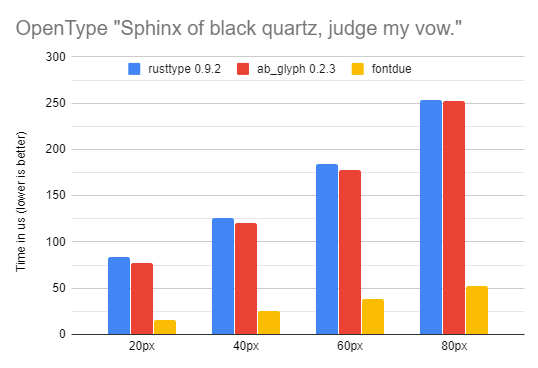
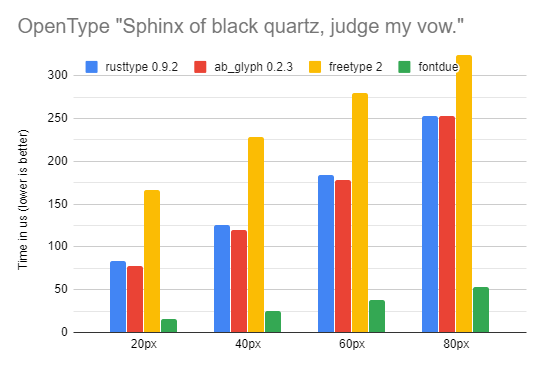
Freetype bench

diff --git a/benches/rasterize.rs b/benches/rasterize.rs
@@ -13,7 +13,7 @@ const FONTS: [(&str, &[u8]); 2] = [
     ("opentype", include_bytes!("../resources/fonts/Exo2-Regular.otf")),
 ];
 const SIZES: [f32; 4] = [20.0, 40.0, 60.0, 80.0];
-const FUNCTIONS: [SetupFunction; 3] = [setup_rusttype, setup_ab_glyph, setup_fontdue];
+const FUNCTIONS: [SetupFunction; 4] = [setup_rusttype, setup_ab_glyph, setup_fontdue, setup_freetype];
 
 fn setup(c: &mut Criterion) {
     let mut group = c.benchmark_group("rasterize");
@@ -99,6 +99,32 @@ fn setup_fontdue(group: &mut BenchmarkGroup<WallTime>, font_label: &str, font: &
         })
     });
 }
+
+#[cfg(feature = "freetype_benchmark")]
+fn setup_freetype(group: &mut BenchmarkGroup<WallTime>, font_label: &str, font: &[u8], size: f32) {
+    use freetype::Library;
+    let lib = Library::init().unwrap();
+    let font = font.to_vec();
+    let face = lib.new_memory_face(font, 0).unwrap();
+
+    let parameter = format!("freetype {} '{}' at {}", font_label, MESSAGE, size);
+    group.bench_function(BenchmarkId::from_parameter(parameter), |b| {
+        b.iter(|| {
+            let mut len = 0;
+            face.set_char_size(0, (size * 0.75 * 64.0) as isize, 96, 96).unwrap();
+            for character in MESSAGE.chars() {
+                face.load_char(character as usize, freetype::face::LoadFlag::RENDER).unwrap();
+                let glyph = face.glyph();
+                let bitmap = glyph.bitmap();
+                len += bitmap.width() * bitmap.rows();
+            }
+            len
+        })
+    });
+}
+
+#[cfg(not(feature = "freetype_benchmark"))]
+fn setup_freetype(_: &mut BenchmarkGroup<WallTime>, _: &str, _: &[u8], _: f32) {}
 
 criterion_group!(benches, setup);
 criterion_main!(benches);

diff --git a/examples/simple.rs b/examples/simple.rs
@@ -2,8 +2,8 @@ use std::fs::File;
 use std::io::Write;
 
 // Scratch pad for glyphs: ⅞ g
-const CHARACTER: char = 'd';
-const SIZE: f32 = 500.0;
+const CHARACTER: char = 'g';
+const SIZE: f32 = 100.0;
 
 // cargo run --example simple --release
 pub fn main() {
